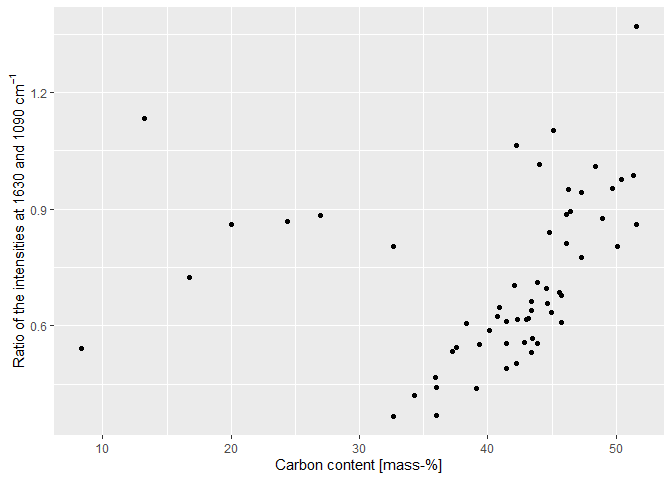
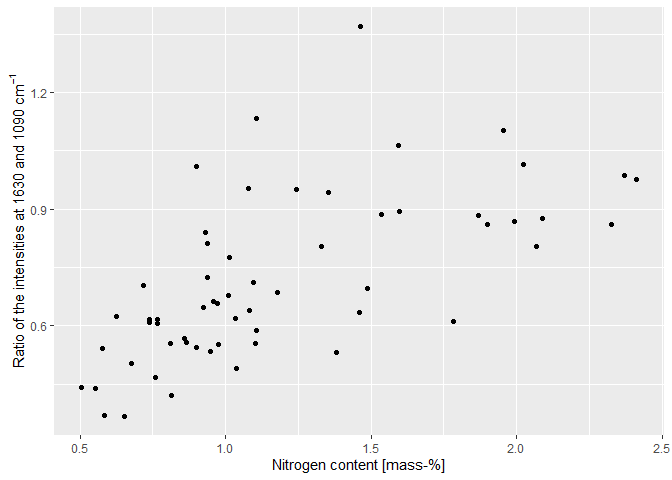
Update readme.

diff --git a/README.md b/README.md
@@ -24,15 +24,15 @@ The following peat properties can currently be predicted:
     and
     ![\delta^{15}](https://latex.codecogs.com/png.image?%5Cdpi%7B110%7D&space;%5Cbg_white&space;%5Cdelta%5E%7B15%7D "\delta^{15}")N)
 -   physical properties (bulk density, volume fraction of solids,
-    non-macroporosity, macroporosity saturaed hydraulic conductivity)
+    non-macroporosity, macroporosity, saturated hydraulic conductivity)
 -   standard Gibbs free energy of formation
     (![\Delta](https://latex.codecogs.com/png.image?%5Cdpi%7B110%7D&space;%5Cbg_white&space;%5CDelta "\Delta")G![\_\text{f}^0](https://latex.codecogs.com/png.image?%5Cdpi%7B110%7D&space;%5Cbg_white&space;_%5Ctext%7Bf%7D%5E0 "_\text{f}^0"))
 -   electrochemical properties (electron accepting capacity, electron
     donating capacity)
 
 The package also contains functions to predict holocellulose and Klason
-lignin contents \[Hodgkins et al. (2018); Teickner.2022a\], but these
-models have been shown to be biased (Teickner and Knorr 2022).
+lignin contents (Hodgkins et al. 2018; Teickner and Knorr 2022), but
+these models have been shown to be biased (Teickner and Knorr 2022).
 
 ### How to install
 
@@ -62,28 +62,30 @@ library(irpeat)
 
 # load additional packages needed for this tutorial
 library(ir)
+library(irpeatmodels)
 library(ggplot2)
+library(units)
+#> udunits database from C:/Users/henni/AppData/Local/R/win-library/4.2/units/share/udunits/udunits2.xml
 ```
 
-You can test ‘irpeat’ with sample data from the R package ‘ir’:
+You can test ‘irpeat’ with sample data from the R package ‘irpeat’:
 
 ``` r
-ir::ir_sample_data
-#> # A tibble: 58 × 7
-#>    id_measurement id_sample sample_type sample_comment             klason_lignin
-#>             <int> <chr>     <chr>       <chr>                      <units>      
-#>  1              1 GN 11-389 needles     Abies Firma Momi fir       0.359944     
-#>  2              2 GN 11-400 needles     Cupressocyparis leylandii… 0.339405     
-#>  3              3 GN 11-407 needles     Juniperus chinensis Chine… 0.267552     
-#>  4              4 GN 11-411 needles     Metasequoia glyptostroboi… 0.350016     
-#>  5              5 GN 11-416 needles     Pinus strobus Torulosa     0.331100     
-#>  6              6 GN 11-419 needles     Pseudolarix amabili Golde… 0.279360     
-#>  7              7 GN 11-422 needles     Sequoia sempervirens Cali… 0.329672     
-#>  8              8 GN 11-423 needles     Taxodium distichum Cascad… 0.356950     
-#>  9              9 GN 11-428 needles     Thuja occidentalis Easter… 0.369360     
-#> 10             10 GN 11-434 needles     Tsuga caroliniana Carolin… 0.289050     
-#> # … with 48 more rows, and 2 more variables: holocellulose <units>,
-#> #   spectra <named list>
+irpeat::irpeat_sample_data
+#> # A tibble: 59 × 11
+#>    id_90 sample_id measurement_id spectra         C      H       N     O       S
+#>  * <int>     <int>          <int> <named lis> [g/g]  [g/g]   [g/g] [g/g]   [g/g]
+#>  1     1         1             23 <df>        0.479 0.0562 0.00968 0.398 0.00395
+#>  2     2         2             32 <df>        0.447 0.0561 0.00478 0.443 0.00008
+#>  3     3         3             38 <df>        0.460 0.0560 0.00788 0.412 0.00008
+#>  4     5         5             52 <df>        0.471 0.0585 0.00755 0.414 0.00008
+#>  5     6         6             54 <df>        0.502 0.0550 0.0127  0.373 0.0013 
+#>  6     7         7             55 <df>        0.484 0.0557 0.0091  0.392 0.0012 
+#>  7     8         8             56 <df>        0.466 0.0566 0.00725 0.401 0.0008 
+#>  8     9         9             57 <df>        0.490 0.0576 0.00885 0.394 0.0013 
+#>  9    10        10             24 <df>        0.459 0.0560 0.00838 0.454 0      
+#> 10    11        11             25 <df>        0.465 0.0566 0.00723 0.420 0      
+#> # … with 49 more rows, and 2 more variables: d15N <dbl>, d13C <dbl>
 ```
 
 `irpeat_sample_data` contains transmission mid infrared spectra of peat
@@ -107,31 +109,35 @@ x <-
       irp_hi(x1 = 1630, x2 = 1090) %>%                    # humification index
       dplyr::pull(hi_1630_1090)
   ) %>%
-  irpeat::irp_carbon_content_1(do_summary = TRUE) %>%     # C content
-  irpeat::irp_bulk_density_1(do_summary = TRUE)           # bulk density
+  irpeat::irp_nitrogen_content_1(do_summary = TRUE) %>%   # N content
+  irpeat::irp_bulk_density_1(do_summary = TRUE) %>%       # bulk density
+  irpeat::irp_macroporosity_1(do_summary = TRUE)          # macroporosity
 ```
 
-`x` is identical to `ir::ir_sample_data`, but contains additional
-columns for the computed humification indices (`h1`, `h2`, `h3`, `h4`)
-and the computed carbon content (`carbon_content_1`)
+`x` is identical to `irpeat_sample_data`, but contains additional
+columns for the computed humification indicex (`h1_1630_1090`) and the
+computed nitrogen content (`nitrogen_content_1`)
 
 ``` r
 x
-#> # A tibble: 59 × 9
-#>    id_90 sample_id measurement_id hi_1630_1090 carbon_content_1 carbon_content_…
-#>  * <int>     <int>          <int> <numeric>         (err) [g/g] <logical>       
-#>  1     1         1             23 0.6190412             0.43(2) FALSE           
-#>  2     2         2             32 0.4393524             0.39(2) FALSE           
-#>  3     3         3             38 0.5568726             0.43(2) FALSE           
-#>  4     5         5             52 0.6164633             0.42(2) FALSE           
-#>  5     6         6             54 0.9495150             0.46(2) FALSE           
-#>  6     7         7             55 0.8387912             0.45(2) FALSE           
-#>  7     8         8             56 0.7038940             0.42(2) FALSE           
-#>  8     9         9             57 0.8111736             0.46(2) FALSE           
-#>  9    10        10             24 0.5434465             0.38(2) FALSE           
-#> 10    11        11             25 0.6056091             0.38(2) FALSE           
-#> # … with 49 more rows, and 3 more variables: bulk_density_1 (err) [g/cm^3],
-#> #   bulk_density_1_in_pd <logical>, spectra <named list>
+#> # A tibble: 59 × 18
+#>    id_90 sample_id measurement_id          C        H        N        O        S
+#>  * <int>     <int>          <int> (err) [g/… (err) [… (err) [… (err) [… (err) […
+#>  1     1         1             23 0.4790247… 0.05625… 0.00968… 0.39768… 0.00395…
+#>  2     2         2             32 0.4468899… 0.0561(… 0.00478… 0.44283…  8(0)e-5
+#>  3     3         3             38 0.4599222… 0.05598… 0.00788… 0.41248…  8(0)e-5
+#>  4     5         5             52 0.4708597… 0.05853… 0.00755… 0.41433…  8(0)e-5
+#>  5     6         6             54 0.5019724… 0.05495… 0.0127(… 0.3732(… 0.0013(…
+#>  6     7         7             55 0.4844088… 0.0557(… 0.0091(… 0.39185… 0.0012(…
+#>  7     8         8             56 0.4661264… 0.05655… 0.00725… 0.40095…  8(0)e-4
+#>  8     9         9             57 0.4897663… 0.05765… 0.00885… 0.39395… 0.0013(…
+#>  9    10        10             24 0.4594893… 0.05598… 0.00838… 0.45435…     0(0)
+#> 10    11        11             25 0.4647567… 0.05663… 0.00723… 0.42003…     0(0)
+#> # … with 49 more rows, and 10 more variables: d15N <dbl>, d13C <dbl>,
+#> #   hi_1630_1090 <numeric>, nitrogen_content_1 (err) [g/g],
+#> #   nitrogen_content_1_in_pd <logical>, bulk_density_1 (err) [g/cm^3],
+#> #   bulk_density_1_in_pd <logical>, macroporosity_1 (err) [L/L],
+#> #   macroporoity_1_in_pd <logical>, spectra <named list>
 ```
 
 Plot of the humification index (ratio of the intensities at 1420 and
@@ -139,13 +145,20 @@ Plot of the humification index (ratio of the intensities at 1420 and
 content:
 
 ``` r
-ggplot2::ggplot(
-  x, 
-  aes(x = quantities::drop_quantities(carbon_content_1) * 100, y = hi_1630_1090)
-) + 
-  ggplot2::geom_point() +
-  ggplot2::labs(
-    x = "Carbon content [mass-%]", 
+x %>%
+  ggplot(
+    aes(
+      x = 
+        nitrogen_content_1 %>%
+        units::set_units(value = "%") %>%
+        quantities::drop_quantities(), 
+      y = 
+        hi_1630_1090
+    )
+  ) + 
+  geom_point() +
+  labs(
+    x = "Nitrogen content [mass-%]", 
     y = expression("Ratio of the intensities at"~1630~and~1090~cm^{-1})
   )
 ```
@@ -156,11 +169,11 @@ All computed quantities come with units and standard errors (thanks to
 the [quantities](https://github.com/r-quantities/quantities) package):
 
 ``` r
-x$carbon_content_1[1:5]
+x$nitrogen_content_1[1:5]
 #> Units: [g/g]
-#> Errors: 0.01611127 0.01714743 0.01647694 0.01669999 0.01584673
-#>        V1        V2        V3        V4        V5 
-#> 0.4317706 0.3906542 0.4286142 0.4227900 0.4623638
+#> Errors: 0.0011526237 0.0008731474 0.0010761203 0.0010050674 0.0012564458
+#>          V1          V2          V3          V4          V5 
+#> 0.010339500 0.005543934 0.008672246 0.007671897 0.012424216
 ```
 
 ### Future development
@@ -177,7 +190,7 @@ is developed to collect the data required for this task.
 Please cite this R package as:
 
 > Henning Teickner, Suzanne B. Hodgkins (2022). *irpeat: Functions to
-> Analyze Mid Infrared Spectra of Peat Samples*. Accessed 2022-09-29.
+> Analyze Mid Infrared Spectra of Peat Samples*. Accessed 2022-09-30.
 > Online at <https://github.com/henningte/irpeat>.
 
 ### Licenses
